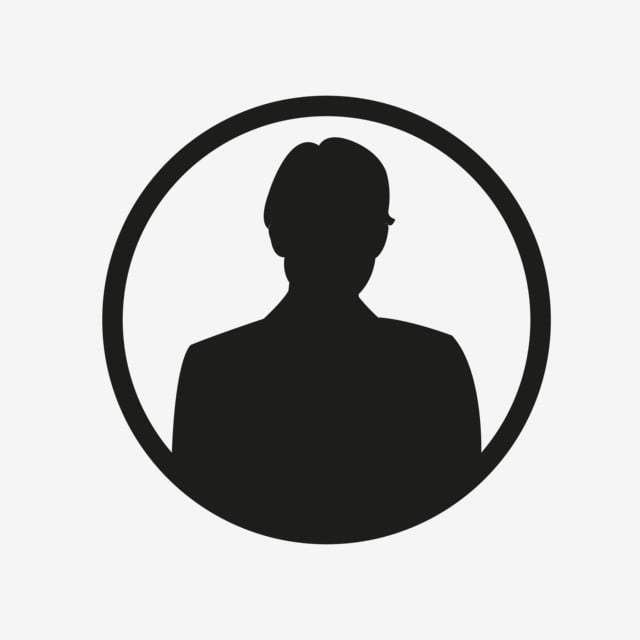
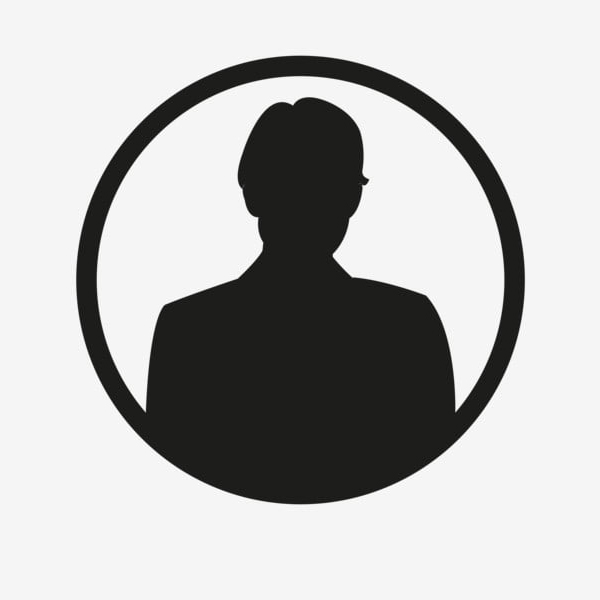
lito

diff --git a/public/index.html b/public/index.html
@@ -2,7 +2,7 @@
 <html lang="en">
 
 <head>
-	<title>Citinlon Esport</title>
+	<title>Citinlon Gaming</title>
 
 	<link rel="shortcut icon" type="image/x-icon" href="images/escudo.png">
 
@@ -270,8 +270,8 @@
 					</div>
 				</div>
 				<div class="col-md-6 col-lg-4 mb-5 mb-lg-5">
-					<div class="team-member" style="border-bottom: 1px solid orange;" >
-						<img src="images/anonimo.jpg" alt="Image" width="289px" height="289px">
+					<div class="team-member" style="border-bottom: 1px solid orange;">
+						<img src="images/anonimo.jpg" alt="Image" class="img-fluid">
 						<div class="text">
 							<h2 class="mb-2 font-weight-light h4">En búsqueda
 							</h2>
